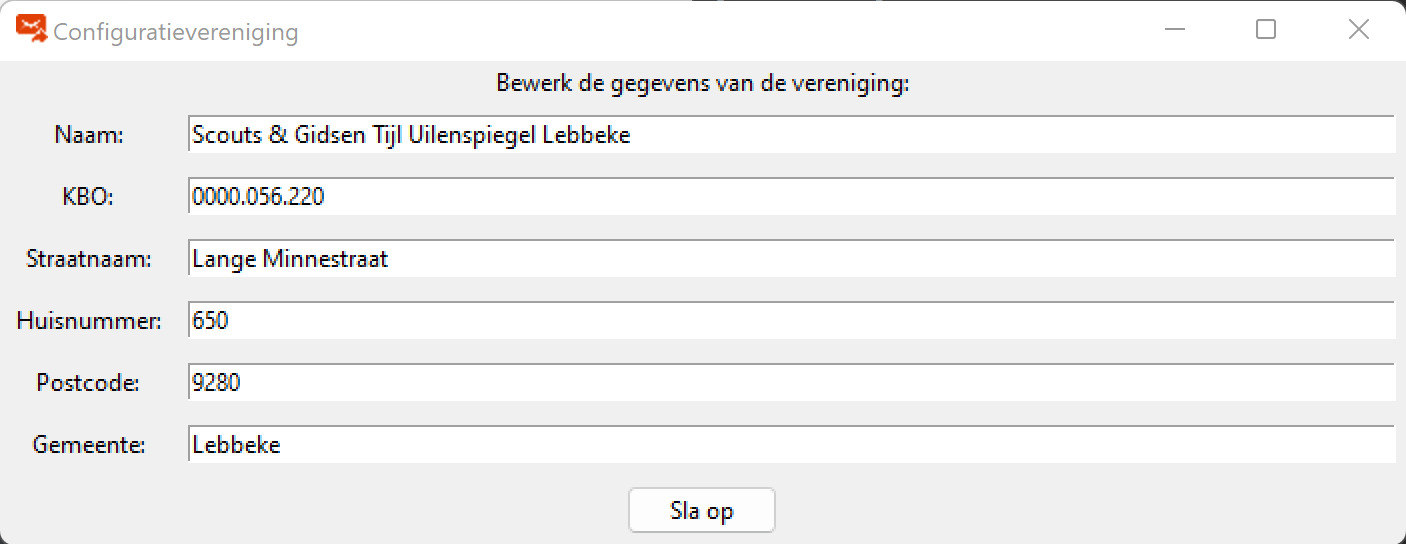
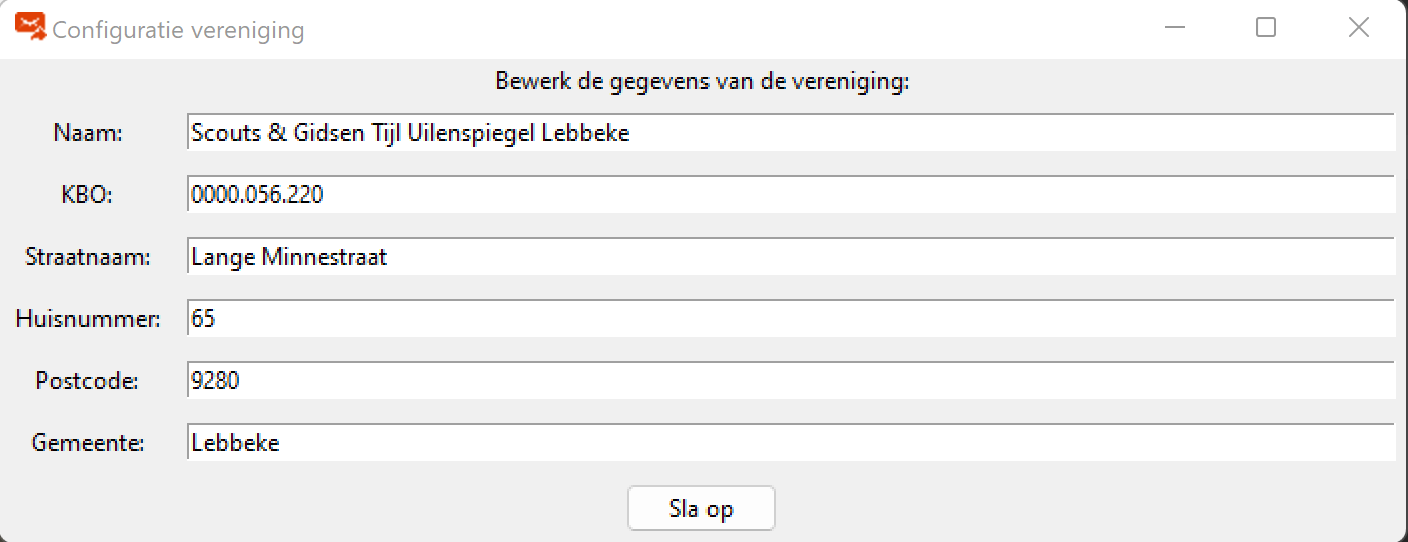
Documentation typos

diff --git a/src/gui.py b/src/gui.py
@@ -99,7 +99,7 @@ def close_callback(top, window):
 
 def edit_config(data: ConfigData):
     label_text = "vereniging" if data.is_instance() else "certificeerder"
-    config_window = show(win, "Configuratie" + label_text)
+    config_window = show(win, "Configuratie " + label_text)
     Label(config_window, text=f"Bewerk de gegevens van de {label_text}:").grid(row=0, columnspan=2, padx=5)
     labeled_entry(config_window, "Naam:", data.name, 1)
     labeled_entry(config_window, "KBO:", data.kbo, 2)

diff --git a/README.md b/README.md
@@ -1,15 +1,15 @@
 ## AttestCreator
 ### Over
-Jeugdorganisaties zijn vanaf inkomstenjaar 2022 verplicht zijn om [fiscale attesten](https://financien.belgium.be/nl/E-services/Belcotaxonweb/technische-documentatie) 
+Jeugdorganisaties zijn vanaf inkomstenjaar 2022 verplicht om [fiscale attesten](https://financien.belgium.be/nl/E-services/Belcotaxonweb/technische-documentatie) 
 voor de terugbetaling van kinderopvang te voorzien. Niemand heeft zin in veel extra administratief werk,
 daarom deze tool om de attesten makkelijker te genereren en door te sturen. AttestCreator genereert de attesten 
-op basis van een excelsheet met ledendata en opgegeven info over het fiscale jaar, waarna alle nodige pdf's worden 
+op basis van een excel-bestand met ledendata en opgegeven info over het fiscale jaar, waarna alle nodige pdf's worden 
 aangemaakt (en doorgestuurd indien gewenst). Na aanvullingen door de ouder/voogd kan het attest ondertekend worden.
 
 ### Gebruik
 #### Installatie
 Download de installer voor de laatste release [hier](https://github.com/rokeppen/attestCreator/releases/download/v2/v2.zip) 
-(mogelijks volgen meldingen over onveilige bestanden) en doorloop de installatie-wizard (voorlopig enkel via Windows). 
+(mogelijks volgen meldingen over onveilige bestanden) en doorloop de installatie-wizard (voorlopig enkel voor Windows). 
 
 #### Configuratie
 Wanneer het programma opgestart wordt, krijg je het volgende venster te zien:
@@ -35,12 +35,13 @@ bij de meeste andere providers werkt de gebruikelijke login. "Antwoord naar" stu
 de juiste persoon, de standaard is het login-e-mailadres als het veld wordt leeggelaten. Indien een cc wordt opgegeven, 
 wordt die bij elke automatische e-mail aangevuld. Sommige mailproviders hebben een maximaal aantal mails dat per minuut 
 kan verstuurd worden, dit kan in het laatste veld aangevuld worden waardoor het automatisch doorsturen hiermee rekening houdt 
-en indien nodig pauzeert.
+en indien nodig pauzeert. Bij geen waarde of nul wordt het maximum genegeerd.
 
 Voor het opmaken van de mails wordt gebruik gemaakt van een standaard mail-template, te vinden in ```mailTemplate.html```.
 Hierin worden de volgende gegevens aangevuld (op de plaatsen van de accolades):
 - {0}: De voornaam van het kind
 - {1}: Het fiscale jaar
+
 Wijzig dit template, terug te vinden in de installatiefolder, om de inhoud van deze mails te veranderen.
 
 #### Genereren attesten
@@ -55,10 +56,11 @@ zullen die toch vanaf periode 1 ingevuld worden in het attest.
 Je kan dus de volledige aanwezigheidslijsten van het kamp/weekend aanvullen, ongeacht hun leeftijd.
 - Overlapt een nieuwe opvangperiode van een kind met een vorige, dan wordt enkel de eerste behouden.
 - Periodes worden gesorteerd op datum.
-- Wanneer meer dan 4 periodes voorkomen per kind, worden meerdere attesten gegenereerd.
+- Wanneer meer dan 4 periodes voorkomen per kind, worden meerdere attesten gegenereerd (omwille van de beperkingen van het standaard-attest).
 - Het opgegeven e-mailadres is het contactadres van de ouders waar het attest naartoe zal gestuurd worden. 
 Indien een kind meerdere keren voorkomt met verschillende e-mailadressen, wordt enkel het eerste behouden.
-- Enkel de tab "Gefilterd" wordt gebruikt (de extra tab dient ter ondersteuning van een latere versie, die de attesten zal ondertekenen).
+- Indien je de standaard hierboven hebt gedownload: enkel de tab "Gefilterd" wordt gebruikt
+(de extra tab dient ter ondersteuning van een latere versie, die de attesten zal ondertekenen).
 
 Na het selecteren van de ledenlijst wordt het volgende venster getoond:
 ![generate](src/resources/img/generate.png)
@@ -83,9 +85,10 @@ worden die in een andere popup weergegeven.
 
 ### Ondertekenen attesten en registreren
 De attesten moeten ook aangegeven worden bij FOD Financiën, dit kan met behulp van 
-[BowConverter](https://financien.belgium.be/sites/default/files/downloads/161-BowConvert86-2022.zip).
-De data worden omgezet in een XML en de aanvraag gedaan worden. De mogelijkheid om de teruggestuurde pdf's 
-te vertalen naar het formaat gebruikt in BowConverter zal onder de knop "Teken attesten" (nu nog uitgegrijsd) 
+[BowConverter](https://financien.belgium.be/nl/E-services/Belcotaxonweb/technische-documentatie).
+De data wordt omgezet in een XML, waarmee de aanvraag gedaan worden via 
+[Belcotax-on-web](https://financien.belgium.be/nl/E-services/Belcotaxonweb). De mogelijkheid om de teruggestuurde pdf's 
+te vertalen naar het formaat gebruikt in BowConverter zal onder de knop "Teken attesten" (nu nog uitgegrijsd) als
 extra functionaliteit voorzien worden tegen het einde van dit fiscale jaar.
 
 ### CLI
